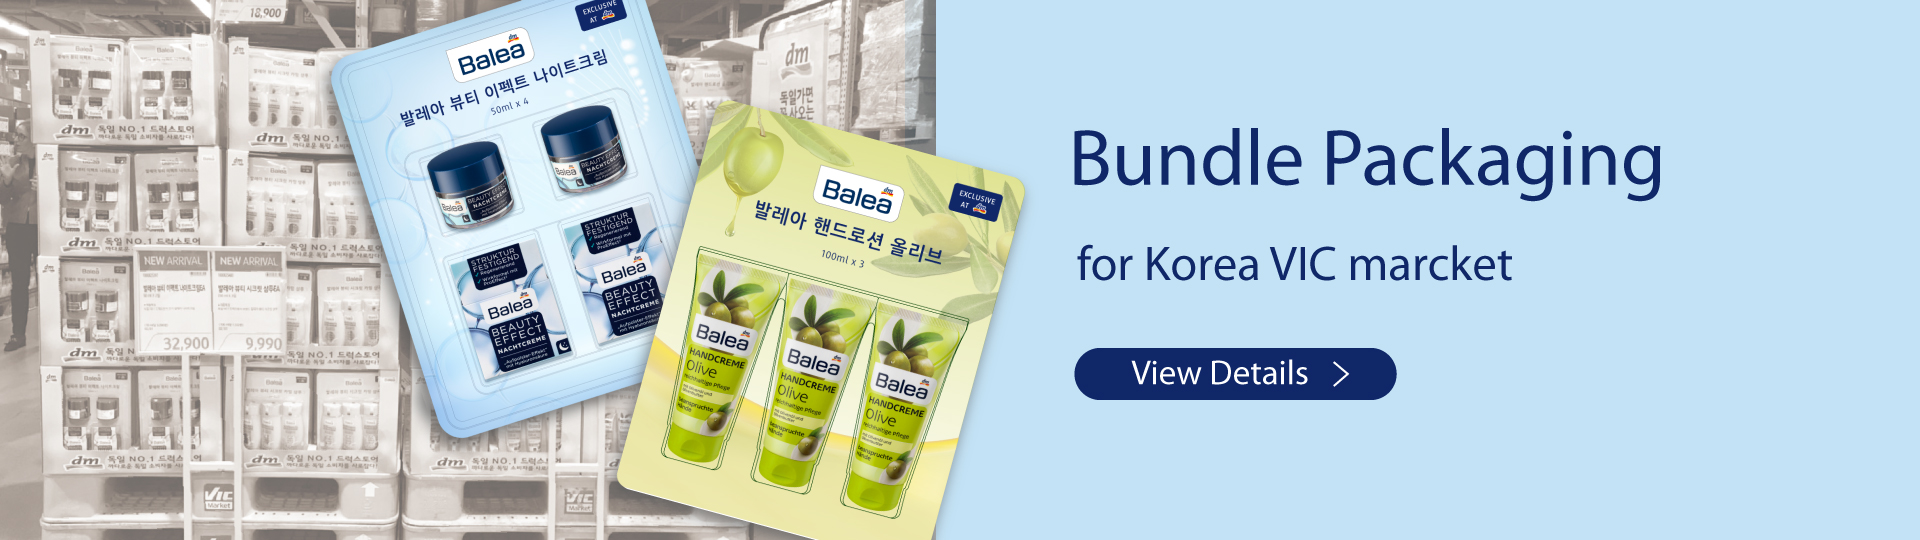
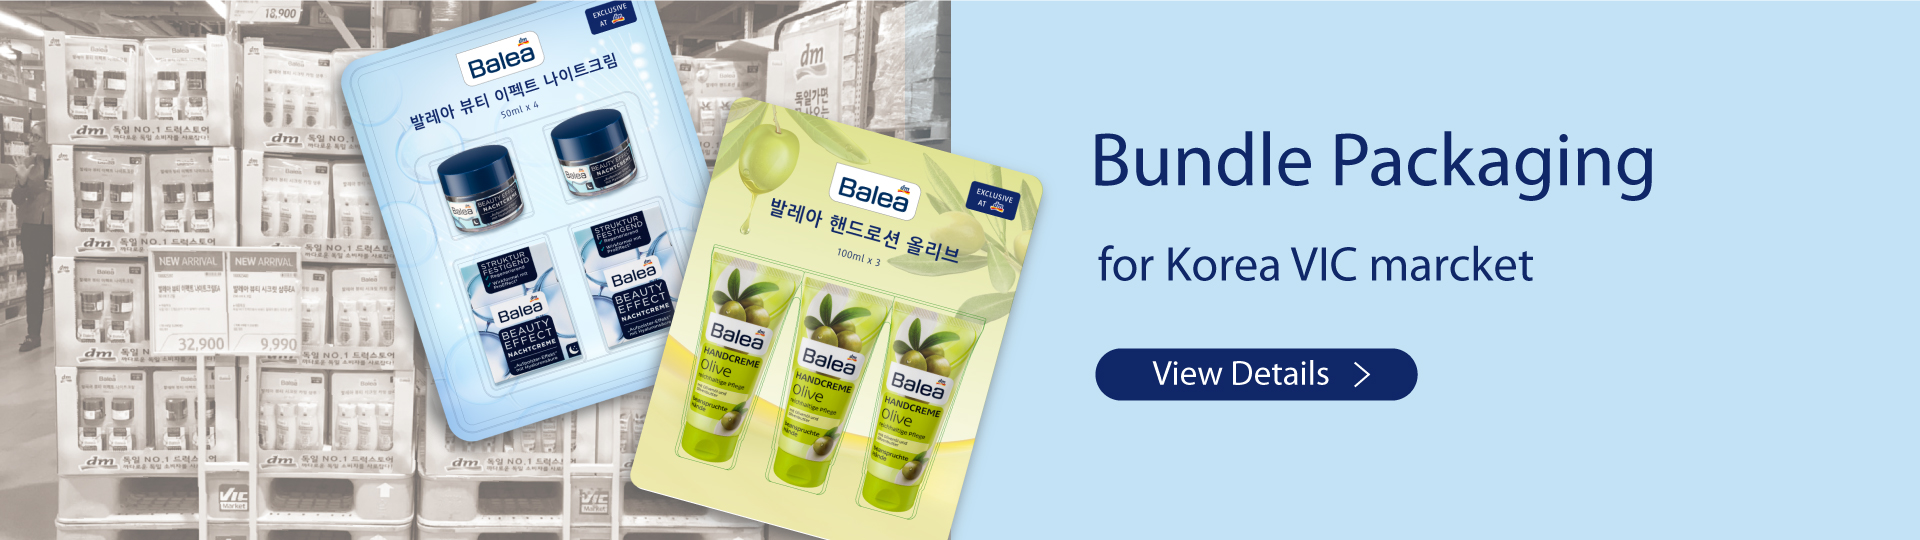
v37

Changed region(s): [[0.0, 0.0, 0.875, 1.0], [0.5625, 0.6222, 0.75, 0.7407]]

diff --git a/packaging.css b/packaging.css
@@ -83,6 +83,24 @@ body {
       width:100%;
       margin-top: 38px;
     }
+    div.header2 img {
+      width:100%;
+          
+    }
+
+    div.header2 {
+      margin-top: -6px;
+    }
+
+
+
+
+    div.header3 img {
+      width:100%;
+      margin-top: 28px;
+    }
+
+
 
 
 

diff --git a/packaging.html b/packaging.html
@@ -58,6 +58,12 @@
     <div class="header">
       <img src="./printed/packaging01.jpg" >
     </div>
+    <div class="header2">
+      <img src="./printed/packaging02.jpg" >
+    </div>
+    <div class="header3">
+      <img src="./printed/packaging03.jpg" >
+    </div>
 
 
 
